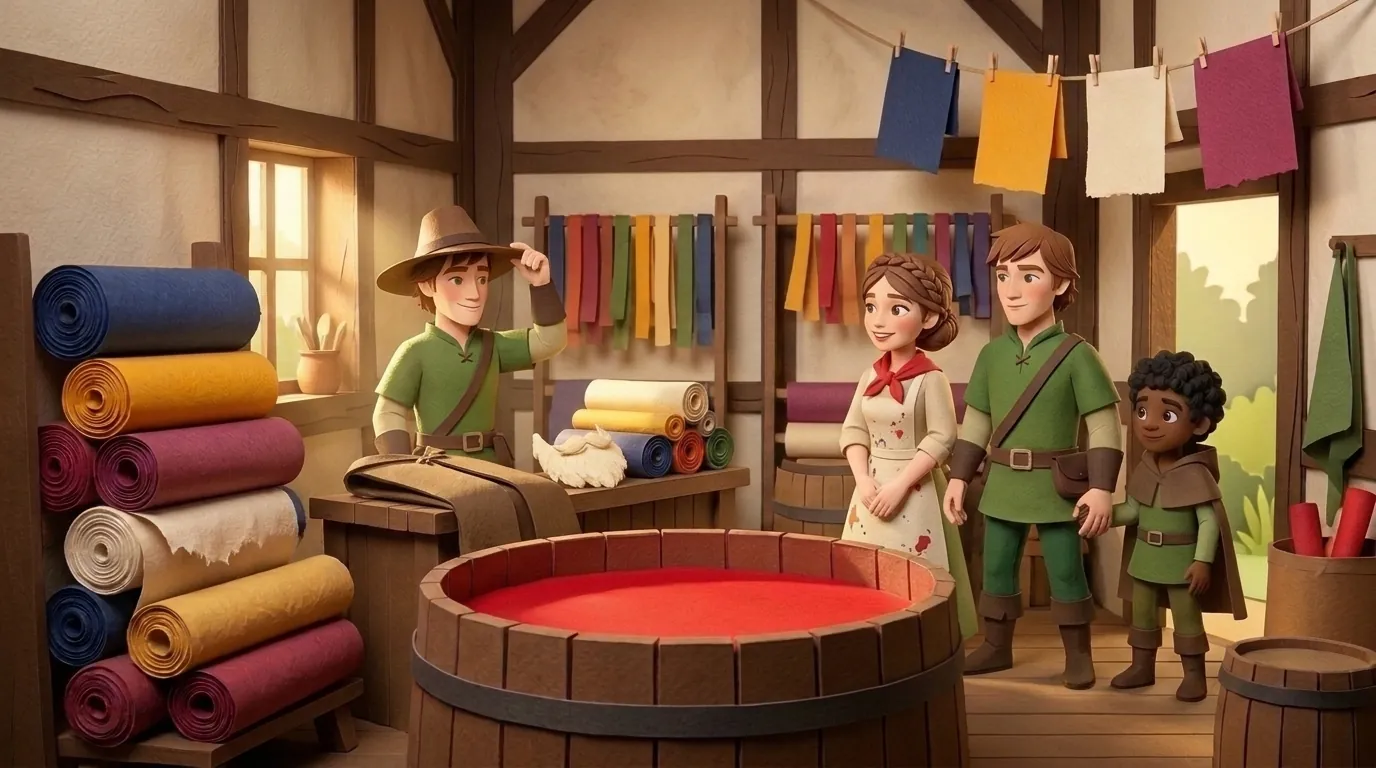
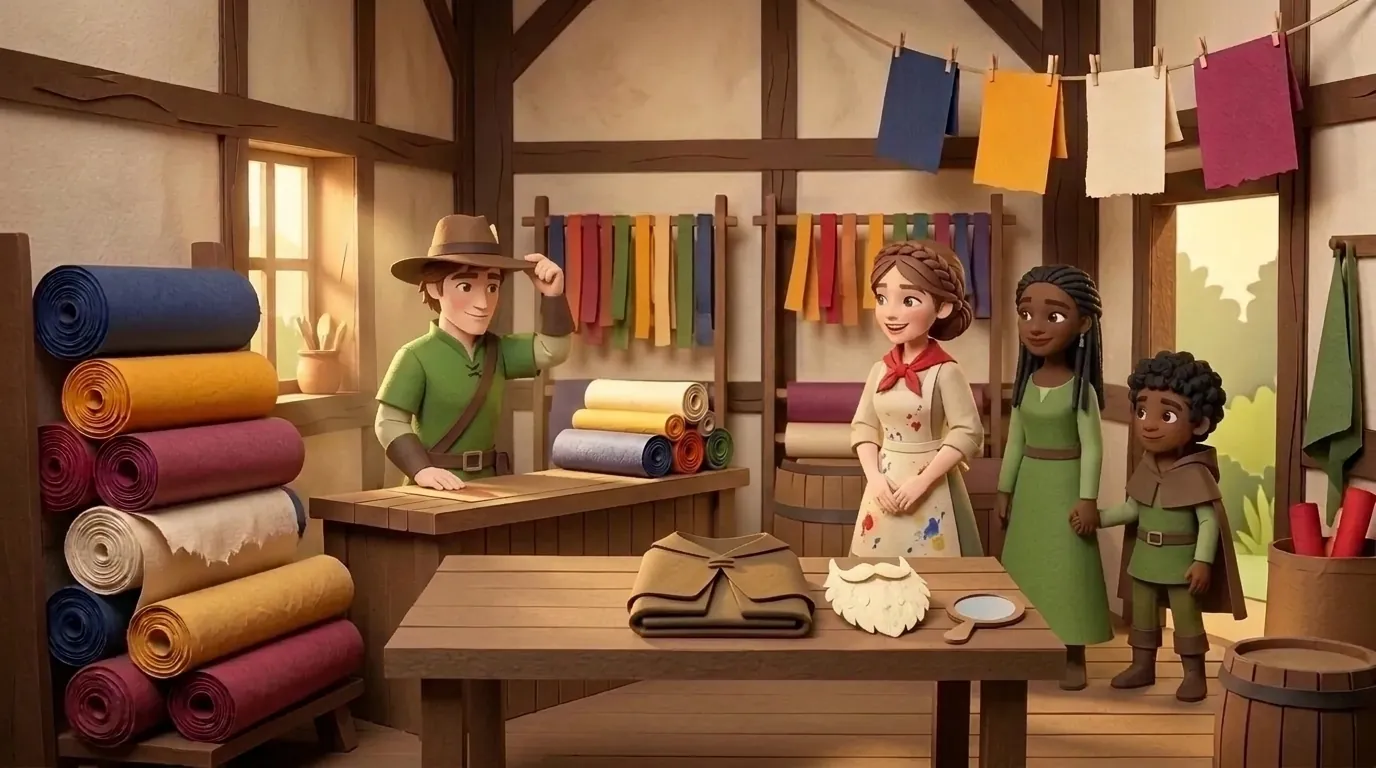
feat(robin-hood): completa 100% da arte (24 WebPs + 2 sprites) e animações calibradas da Parte 2 (API Batch US$ 0,69)

Changed region(s): [[0.25, 0.25, 0.9062, 1.0], [0.0625, 0.5312, 0.0938, 0.5625]]

diff --git a/sw.js b/sw.js
@@ -7,7 +7,7 @@
    - Páginas HTML e vozes.js: rede primeiro com limite de 2,5 s (se a rede estiver lenta, abre do cache na hora).
    - Narração gravada (*.mp3 e *.json): rede primeiro com limite de 2,5 s, cache próprio (cv-narracao).
    - Demais arquivos: cache primeiro (abre instantâneo no tablet). */
-const CACHE = 'classicos-vivos-94e3d9a4729b';
+const CACHE = 'classicos-vivos-8830d8c0d8ba';
 const CACHE_AUDIO = 'cv-narracao';
 const CACHE_META = 'cv-meta';
 const FILES = [
@@ -113,7 +113,7 @@ const FILES = [
     ],
     [
         "./assets/js/offline-manager.js",
-        "1a4d75cd"
+        "031041b9"
     ],
     [
         "./assets/js/texto.js",
@@ -1236,12 +1236,48 @@ const FILES = [
         "e230503c"
     ],
     [
+        "./robin-hood/imagens/parte-2/camadas/p10-lenco.webp",
+        "31307d11"
+    ],
+    [
         "./robin-hood/imagens/parte-2/camadas/p4-flamula.webp",
         "9c726a68"
     ],
     [
+        "./robin-hood/imagens/parte-2/p0-real.webp",
+        "472d943c"
+    ],
+    [
         "./robin-hood/imagens/parte-2/p1-real.webp",
         "f866529a"
+    ],
+    [
+        "./robin-hood/imagens/parte-2/p10-real.webp",
+        "e6a53f59"
+    ],
+    [
+        "./robin-hood/imagens/parte-2/p11-real.webp",
+        "bec2056d"
+    ],
+    [
+        "./robin-hood/imagens/parte-2/p11-stage-1.webp",
+        "d2856059"
+    ],
+    [
+        "./robin-hood/imagens/parte-2/p11-stage-2.webp",
+        "84491e64"
+    ],
+    [
+        "./robin-hood/imagens/parte-2/p11-stage-3.webp",
+        "06104207"
+    ],
+    [
+        "./robin-hood/imagens/parte-2/p12-real.webp",
+        "8f42ee87"
+    ],
+    [
+        "./robin-hood/imagens/parte-2/p13-real.webp",
+        "e033c0c7"
     ],
     [
         "./robin-hood/imagens/parte-2/p2-real.webp",
@@ -1253,19 +1289,51 @@ const FILES = [
     ],
     [
         "./robin-hood/imagens/parte-2/p3-stage-1.webp",
-        "3f917967"
+        "67360ed2"
     ],
     [
         "./robin-hood/imagens/parte-2/p3-stage-2.webp",
-        "13958178"
+        "77e3deac"
     ],
     [
         "./robin-hood/imagens/parte-2/p3-stage-3.webp",
-        "c3261174"
+        "30bcfefa"
     ],
     [
         "./robin-hood/imagens/parte-2/p4-real.webp",
         "24cae2e0"
+    ],
+    [
+        "./robin-hood/imagens/parte-2/p5-real.webp",
+        "fa875623"
+    ],
+    [
+        "./robin-hood/imagens/parte-2/p6-real.webp",
+        "e02564ed"
+    ],
+    [
+        "./robin-hood/imagens/parte-2/p7-real.webp",
+        "5dc8945b"
+    ],
+    [
+        "./robin-hood/imagens/parte-2/p8-real.webp",
+        "983495d5"
+    ],
+    [
+        "./robin-hood/imagens/parte-2/p9-real.webp",
+        "649588e6"
+    ],
+    [
+        "./robin-hood/imagens/parte-2/p9-stage-1.webp",
+        "c33b8797"
+    ],
+    [
+        "./robin-hood/imagens/parte-2/p9-stage-2.webp",
+        "a0949bb0"
+    ],
+    [
+        "./robin-hood/imagens/parte-2/p9-stage-3.webp",
+        "05ec28ce"
     ],
     [
         "./robin-hood/parte-1.html",
@@ -1273,7 +1341,7 @@ const FILES = [
     ],
     [
         "./robin-hood/parte-2.html",
-        "4ec9685f"
+        "2f11e6e7"
     ],
     [
         "./sobre.html",

diff --git a/robin-hood/parte-2.html b/robin-hood/parte-2.html
@@ -80,7 +80,7 @@
             filter: drop-shadow(0 3px 4px rgba(35, 18, 8, 0.28));
         }
         .camada[data-camada="c-lenco-p10"] > .camada-arte {
-            transform-origin: 50% 0%;
+            transform-origin: 70% 0%;
             animation: rh2Flamula 2.4s ease-in-out infinite;
         }
 
@@ -142,7 +142,7 @@
                     alt: 'Sob um arco de folhas de Xervedo e uma Flecha de Ouro brilhante, Robin Hood, Lady Mariana, João Pequeno, Grilo e Clara Escarlate sorriem diante da silhueta da Torre Velha',
                     legendaReal: '🏹 A Flecha de Ouro e o Resgate na Torre',
                     camadas: [
-                        { id: 'c-brilho-p0', fundo: 'transparent', x: 50, y: 36, w: 32, h: 18, z: 6 }
+                        { id: 'c-brilho-p0', fundo: 'transparent', x: 50, y: 34.5, w: 36, h: 18, z: 6 }
                     ],
                     hotspots: [
                         { x: 34, y: 18, w: 32, h: 16, palavra: 'FLECHA', emoji: '🏹' },
@@ -305,7 +305,7 @@
                     alt: 'Na praça de Nortigão, fitas vermelho-escarlate enrolam dois guardas feito pacote de presente e uma nuvem de farinha deixa o Xerife branco feito boneco de neve enquanto o bando foge rindo',
                     legendaReal: '🎀 Fitas, Farinha e Risada na Praça!',
                     camadas: [
-                        { id: 'c-farinha-p6', fundo: 'transparent', x: 50, y: 36, w: 68, h: 28, z: 6 }
+                        { id: 'c-farinha-p6', fundo: 'transparent', x: 34, y: 46, w: 46, h: 32, z: 6 }
                     ],
                     hotspots: [
                         { x: 32, y: 38, w: 28, h: 36, palavra: 'FITA', emoji: '🎀' },
@@ -417,11 +417,11 @@
                     alt: 'Ao entardecer diante da Torre Velha, Clara acena da janela alta com seu lenço vermelho-escarlate para Robin, Mariana, João Pequeno e Grilo escondidos na mata enquanto o guarda cochila na portinha',
                     legendaReal: '🧣 O Sinal de Clara na Janela da Torre',
                     camadas: [
-                        { id: 'c-lenco-p10', src: 'camadas/p10-lenco.webp', x: 50, y: 24, w: 9, z: 7, emoji: '🧣' }
+                        { id: 'c-lenco-p10', src: 'camadas/p10-lenco.webp', x: 48.4, y: 32.4, w: 8.5, z: 7, emoji: '🧣' }
                     ],
                     hotspots: [
                         { x: 42, y: 12, w: 16, h: 18, palavra: 'JANELA', emoji: '🪟' },
-                        { x: 46, y: 22, w: 12, h: 18, palavra: 'LENÇO', emoji: '🧣' },
+                        { x: 44, y: 32, w: 12, h: 16, palavra: 'LENÇO', emoji: '🧣' },
                         { x: 44, y: 66, w: 16, h: 24, palavra: 'GUARDA', emoji: '🛡' }
                     ]
                 }

diff --git a/docs/cadernos/robin-hood-parte-2.md b/docs/cadernos/robin-hood-parte-2.md
@@ -7,9 +7,9 @@ Plano: [`../PLANO-ROBIN-HOOD.md`](../PLANO-ROBIN-HOOD.md) · Receita: [`../recei
 | :--- | :--- | :--- | :--- | :--- |
 | 0 Concepção, elenco diverso e escaleta (com `@diversidade-compliance`) | ✅ aprovada pelo humano | 2026-11-26 | — | US$ 0,00 |
 | 1 Adaptação e texto (`@escritor-hydrogen` → `@revisor-opus` → `@diversidade-compliance`) | ✅ **100% concluído e lapidado** (Capa + Caps. 12–24, com comédia e ajustes de diversidade) | 2026-11-27 | `main` | US$ 0,00 |
-| 2 Interações e visual (Opção C — Diorama de Papel + `@diretor-animacao`) | ⬜ | | | US$ 0,00 |
-| 3 Revisão humana 🛑 | ⬜ | | | — |
-| 4 Ilustrações e animações integradas (gerador nativo) | ⬜ | | | US$ 0,00 |
+| 2 Interações e visual (Opção C — Diorama de Papel + `@diretor-animacao`) | ✅ concluído (3 atividades progressivas + 6 páginas animadas / 2 sprites) | 2026-11-27 | `main` | US$ 0,00 |
+| 3 Revisão humana 🛑 | 🟡 **pronto para revisão do humano (texto + 24 WebPs + animações)** | 2026-11-27 | `main` | — |
+| 4 Ilustrações e animações integradas | ✅ **100% concluído (24 cenas/etapas WebP + 2 sprites animados)** | 2026-11-27 | `main` | US$ 0,6901 |
 | 5 Revisão final em família 🛑 | ⬜ | | | — |
 | Publicação (estante principal, PT) | ⬜ | | | — |
 | 6 Narração (pt) — P1 e P2 | ⬜ (após publicação da P2) | | | US$ |
@@ -52,6 +52,7 @@ Plano: [`../PLANO-ROBIN-HOOD.md`](../PLANO-ROBIN-HOOD.md) · Receita: [`../recei
 - **Animações (`@diretor-animacao`, `Gemini 4 Neon`)**:
   - Vapor/bolhas do tacho no Cap. 13 **removidos** (feedback humano: parecia tinta fervendo).
   - Livro fechado com **6 páginas animadas em 14** (Capa, Caps. 12, 15, 17, 21 e 24) e apenas **2 sprites recortados** (`p4-flamula.webp` pronto + `p10-lenco.webp` agendado).
-- **Ilustrações (gerador nativo, US$ 0,00)**:
-  - **Prontas (8/22 WebP)**: `p1-real`, `p2-real`, `p3-real`, `p3-stage-1..3`, `p4-real`, `camadas/p4-flamula`.
-  - **Agendadas para renovação da cota (~19:45 BRT de 2026-11-27)**: `p0-real`, `p5-real`, `p6-real`, `p7-real`, `p8-real`, `p9-real`, `p9-stage-1..3`, `p10-real`, `camadas/p10-lenco`, `p11-real`, `p11-stage-1..3`, `p12-real`, `p13-real` + retoques de `p3-stage-1` (remover Robin duplicado) e `p3-stage-2/3` (fechar manto sem verde). Todos os prompts estão prontos no board do Swarm (`#42`, `#47`, `#51`).
+- **Ilustrações (100% concluídas — 24 cenas/etapas WebP + 2 sprites animados)**:
+  - **Gerador nativo (`US$ 0,00`)**: `p1-real`, `p2-real`, `p3-real`, `p4-real`, `camadas/p4-flamula`.
+  - **API paga Batch autorizada (`tools/arte/robin-hood-parte-2.mjs`, lote `batches/jz3e2knf0cdcakd91kf8cqty9yhja4mbvqns`, 20/20 aceitas, `US$ 0,6901` registrados em `docs/arte/gastos.csv`)**: `p0-real`, retoques `p3-stage-1..3`, `p5-real`, `p6-real`, `p7-real`, `p8-real`, `p9-real`, `p9-stage-1..3`, `p10-real`, `camadas/p10-lenco`, `p11-real`, `p11-stage-1..3`, `p12-real`, `p13-real`.
+  - Recorte de `p10-lenco` (removida cornija superior, 0 pixels magenta/halo) e calibração de coordenadas (`c-brilho-p0`, `c-farinha-p6`, `c-lenco-p10`, `c-sol-p13`) concluídos pelo `@diretor-animacao`.

diff --git a/docs/RETOMADA.md b/docs/RETOMADA.md
@@ -1,4 +1,4 @@
-# 🔁 Retomada — onde o trabalho parou (2026-11-26, Robin Hood Parte 1 publicada e documentos alinhados; próxima frente: Robin Hood Parte 2)
+# 🔁 Retomada — onde o trabalho parou (2026-11-27, Robin Hood Parte 2 completa em rascunho ilustrado e animado na main, pronta para revisão do humano)
 
 **Leia este arquivo primeiro numa sessão nova**, seja qual for o agente. Depois, siga a ordem de leitura do `AGENTS.md` §0.2 (AGENTS → receita geral → receita específica → plano → caderno da parte).
 
@@ -33,7 +33,7 @@
 
 ## 2. Próximas sessões (escolha do humano)
 
-> **2026-11-26 — Robin Hood: Parte 1 publicada e documentação alinhada; foco agora na Parte 2**: `robin-hood/parte-1.html` (Capa + 11 capítulos, 22 gravuras em Diorama de Papel Recortado + 8 sprites animados, US$ 0,00) está publicada na estante principal. Issues `#69`–`#73` fechadas. A narração em português da Parte 1 foi adiada para depois do lançamento da Parte 2. Documentos alinhados ([`PLANO-ROBIN-HOOD.md`](PLANO-ROBIN-HOOD.md), [`receitas/ROBIN-HOOD.md`](receitas/ROBIN-HOOD.md), [`DIRETRIZES_ROBIN_HOOD.md`](DIRETRIZES_ROBIN_HOOD.md), [`cadernos/robin-hood-parte-1.md`](cadernos/robin-hood-parte-1.md)). **Próximos alinhamentos com o humano (um passo por vez)**: definir o novo agente de Antirracismo, Diversidade e Compliance no Swarm, o recorte de partes/elenco da Parte 2 e montar a equipe no `/swarm`.
+> **2026-11-27 — Robin Hood, Parte 2 (*A Flecha de Ouro e o Resgate na Torre*) 100% escrita, ilustrada e animada (rascunho na `main`, pronta para revisão do humano)**: `robin-hood/parte-2.html` (`rascunho: true`, Capa + 13 capítulos = 14 páginas, caps. 12–24, com estreia orgânica de **Clara Escarlate**, 3 atividades progressivas reais, elementos de comédia leve, revisão do `@diversidade-compliance` e 6 páginas com animações sutis calibradas pelo novo `@diretor-animacao`). Arte 100% em Diorama de Papel Recortado (24 WebPs + 2 sprites animados: `p4-flamula` e `p10-lenco`): 5 ativos no gerador nativo (`US$ 0,00`) + 20 ativos via API Batch autorizada (`tools/arte/robin-hood-parte-2.mjs`, **`US$ 0,6901`** em `docs/arte/gastos.csv`). Caderno: [`cadernos/robin-hood-parte-2.md`](cadernos/robin-hood-parte-2.md). 🛑 **Aguardando revisão do humano** para ajustes finais e publicação na estante principal!
 
 > **2026-11-23 — Dom Quixote inteiro narrado em inglês, espanhol e francês** (Partes 5 a 8 pelo modo lote): `partes: [1, …, 8]` em `narracao-en/-es/-fr`, todas as páginas e palavras-chave conferidas no Whisper local e sem rajadas. O mordomo usa a voz da condessa Trifaldi nos quatro idiomas (decisão do humano). 🛑 Escuta do humano: `docs/narracao/qa-parte-{5,6,7,8}-{en,es,fr}.md` (vozes novas escolhidas pelo catálogo, sem escuta). Gasto das Partes 5–8 nos três idiomas: ~US$ 2,68 (Batch; novembro inteiro ~US$ 6,40 somando arte e narração).
 
